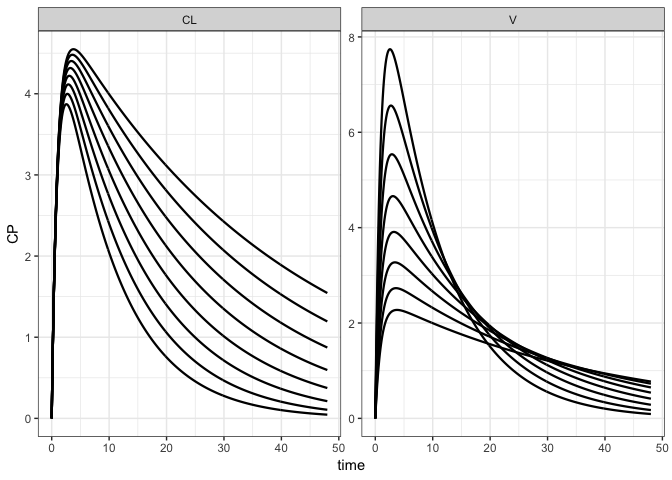
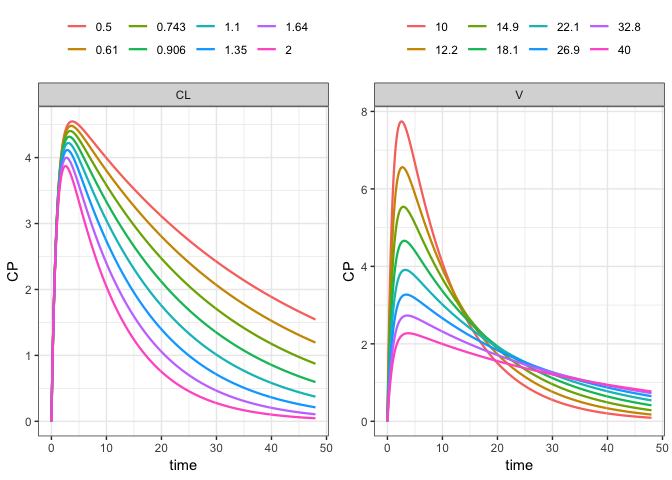
add cowplot stuff; add color to plots

diff --git a/README.md b/README.md
@@ -25,7 +25,7 @@ The nominal (in model) parameter value is divided and multiplied by a factor, ge
 ``` r
 mod %>% 
   ev(amt = 100) %>% 
-  parseq_factor(CL,V,.n=8) %>% 
+  parseq_factor(CL ,V, .n=8) %>% 
   sens_each() %>% 
   sens_plot(CP)
 ```
@@ -34,6 +34,8 @@ mod %>%
 
 HIV viral dynamic model
 -----------------------
+
+We look at the latent infected cell pool at different "burst" size, or the number of HIV particles released when one cell lyses.
 
 ``` r
 mod <- mread("hiv", "inst/example")
@@ -50,6 +52,8 @@ mod %>%
 Sensitivity analysis on custom sequences
 ----------------------------------------
 
+The model is rifampicin PBPK.
+
 ``` r
 mod <- mread("inst/example/rifampicin.cpp") %>% update(delta = 0.1)
 
@@ -60,7 +64,7 @@ mod %>%
     Kp_muscle = even_seq(0.001,0.1, .n = 6)
   ) %>% 
   sens_each() %>% 
-  sens_plot(Ccentral)
+  sens_plot(Ccentral, bw = TRUE)
 ```
 
 ![](inst/img/README-unnamed-chunk-5-1.png)
